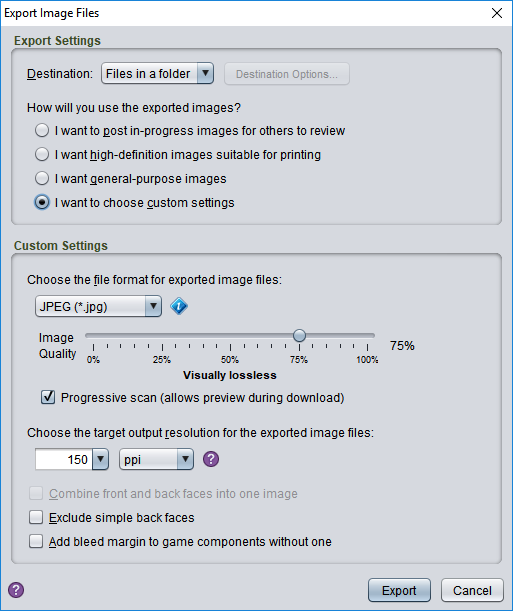
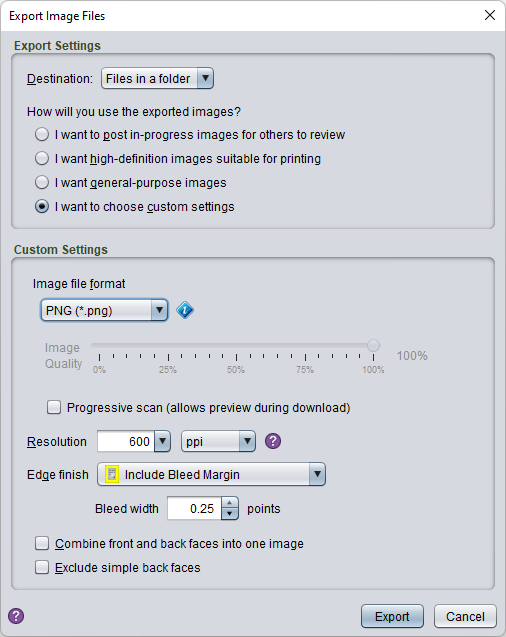
update export dialog docs for SE 3.3 user bleed margin

diff --git a/docs/um-gc-export.md b/docs/um-gc-export.md
@@ -51,7 +51,11 @@ When checked, the image is saved in multiple passes. When shown in a Web browser
 
 ### Resolution
 
-The resolution that the images are drawn at. Higher resolution images are higher in quality because they use more pixels to represent the same physical area. Resolution is measured in pixels per inch (ppi) or pixels per centimetre (ppcm). Typical resolution for print purposes is 300 ppi. Typical resolution for screen use is 150-200 ppi.
+The resolution that the images are drawn at. Higher resolution images are higher in quality because they use more pixels to represent the same physical area. Resolution is measured in pixels per inch (ppi) or pixels per centimetre (ppcm). Typical resolution for print purposes is 300 ppi. Typical resolution for screen use is 150&ndash;200 ppi.
+
+### Edge finish
+
+This lets you choose whether or not to include a [bleed margin](um-deck-pubmarks.md#bleed-margins) as part of the exported faces, where supported by the component face. If you choose not to include a bleed margin, you can select [squared or rounded corners](um-gc-preview.md#edge-finish). Rounded corners may be more aesthetically pleasing, especially if the images may be viewed against coloured or textured backgrounds. However, for this option to work as intended you must choose an image format that supports transparency (not JPEG). It may also significantly increase the image file size. (Some faces are meant to have square corners, in which case choosing rounded will have the same effect as choosing squared.)
 
 ### Combine front and back faces
 
@@ -62,10 +66,6 @@ When checked, front and back faces of the same component will be joined into a s
 Many game components have a simple back face that consists of a either a fixed image or are an identical copy of the front face. Checking this option skips these simple faces.
 
 > The *Combine front and back faces* and *Exclude simple back faces* can't be selected at the same time.
-
-### Add bleed margin to game components without one
-
-If the component design does not include a bleed margin, Strange Eons will synthesize a fake one. Not all component types support this option.
 
 ## The "Readme" file
 
